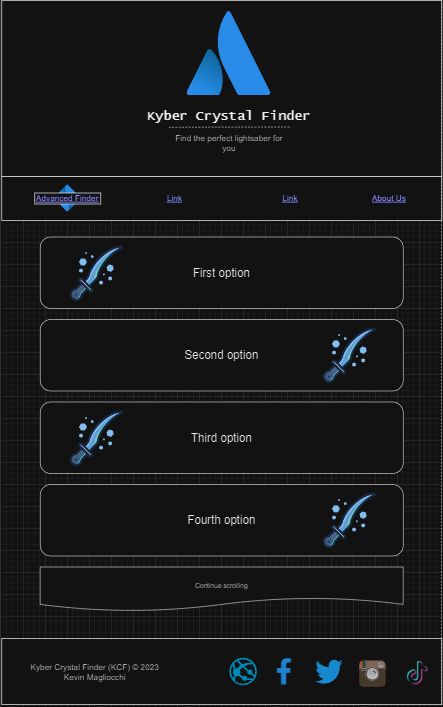
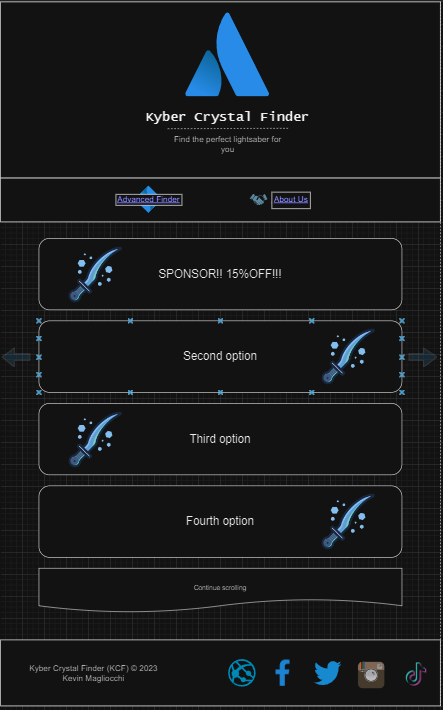
Completed the verst version of my site plan

diff --git a/kcf_site/site-plan.html b/kcf_site/site-plan.html
@@ -126,29 +126,46 @@
       </h2>
       <h3>Home page</h3>
       <p>
-        [Written copy for the home page here]
+        The home page will feature a scrolling layout with banners for the most visited sites to buy lightsabers or to customize your own. There will be more than just 4 options but the first options on the page will be sites or products that have a limited time discount. The header will contain the link for page 2: Advanced Filter and Page 3: About us.
+        <br> The very first option will contain a sublink to the site partners The subpage will contain featured offers with a lower price.
       </p>
       <p>Images for the Home page</p>
-        <img src="#" alt="image for homepage">
-        <img src="#" alt="image for homepage">
+        <img src="images/kfc_logo.png" alt="logo for homepage">
+        <img src="images/background.png" alt="background for homepage">
 
       </ul>
-      <h3>[Advanced Find]</h3>
+      <h3>Advanced Find</h3>
       <p>
-        [Written copy for the Page 2 here]
+        This page will contain a search bar to find the products you are looking for. Also there will be a filter that will let you choose the type of products you are looking for by very specific categories. The majority of those options are multi-selectable to allow you to have even more specific results as the aim of the site is to provide the most options available in the internet. This page will lead you to a sub-page with products that match the search. All the filters will be at the left of the page and the results will appear as scrolling containers with information about the products. Every product will have tags and provider information, clickling on them will lead you to the product official page. <br> There will be a mechanism that gathers products that match the specifications provided by me. It will search many sites on the internet and retrieve the product data such as price, location(if available) an image of the product and many other information. Each product added will countain a series of tags that are directly connected to the filters. The search bar will also be directly connected to the filters identifying the keywords used by the user.
       </p>
+
       <p>Images for the Page 2</p>
-        <img src="#" alt="image for page">
-        <img src="#" alt="image for page">
+        <img src="images/background.png" alt="background image for page">
+        <img src="images/kyber.jpeg" alt="image for the top of the page">
+        <img src="images/placeholder_3.png" alt="placeholder image for logo">
 
       </ul>
-      <h3>[Page 3]</h3>
+      <h3>About Us</h3>
       <p>
-        [Written copy for the Page 3 here]
+        This page will contain information about the company and its history. It will also contain links to other pages as well as social media with more in depth information about it.
+        <br> Here is the text that will be used in the page:
+        <p>
+          "Welcome to Kyber Crystal Finder, the best place in the galaxy to find all things related to lightsabers. We are a team of Star Wars fans led by Kevin Magliocchi very passionate about lightsabers. Having spent many years of our lives dreaming of one day holding a lightsaber, our purpose is to show you that anyone can make this dream a reality.<br>
+
+          Our journey began with a shared love for the iconic lightsabers that have graced the Star Wars universe. We understand the excitement of holding a finely crafted hilt, igniting a glowing blade, and feeling the Force resonate through your hands. Our mission is to ensure that every Jedi and Sith, from Padawan to Master, can find the perfect lightsaber to match their unique style and combat needs.<br>
+          
+          At Kyber Crystal Finder, we've searched the galaxy's digital realms to curate an extensive database of lightsaber replicas, parts, and accessories. Our team of experts has created our search engine to deliver accurate, lightning-fast results, helping you find the lightsaber of your dreams with ease.<br>
+          
+          But Kyber Crystal Finder is more than just a website; it's a community of Star Wars fans like us! We believe in fostering a sense of unity among fans, where sharing knowledge and experiences is just as important as finding the ideal lightsaber. <br>
+          
+          Whether you're a collector, a cosplayer, or a dedicated duelist, Kyber Crystal Finder is your trusted companion in the quest for the perfect lightsaber. May the Force guide you as you navigate our platform, and we're here to assist you every step of the way. Join us on this intergalactic journey, and together, we can explore the wonders of the Star Wars galaxy!<br>
+          
+          Thank you for joining us in our adventure through the Star Wars universe. May the Force be with you!"
+        </p>
       </p>
       <p>Images for the Page 3</p>
-        <img src="#" alt="image for page3">
-        <img src="#" alt="image for page3">
+        <img src="images/background.png" alt="background image for page3">
+        <img src="images/me.jpg" alt="placeholder image for page3">
 
       </ul>
       <hr>
@@ -159,22 +176,23 @@
         Create three wireframes for your site. One for each page and list them here</p>
 
       <h3>Home</h3>
-      <p>         
-        [Any additional details about home that the wireframe does not make clear]
+      <p>
+        The header includes 3 links there are dinamic. The page that you are on will have its link replaced with the homepage link(but it'll always be on the left of the page regardless of the page you are on).
+        The network symbol on the footer indicates the personal website of the creator.
       </p>
       <img src="images/wireframe_1.PNG" alt="home page wireframe">
 
-      <h3>[Page 2]</h3>
+      <h3>Advanced Finder</h3>
       <p>         
-        [Any additional details about page 2 that the wireframe does not make clear]
+        The filters are multi-selectable and the more whitespace is to provide more filters in the near future.
       </p>
       <img src="images/wireframe_2.PNG" alt="page 2 wireframe">
 
-      <h3>[Page 3]</h3>
+      <h3>About Us</h3>
       <p>         
         [Any additional details about page 3 that the wireframe does not make clear]
       </p>
-      <img src="#" alt="page 3 wireframe">
+      <img src="images/wireframe_3.png" alt="page 3 wireframe">
     </main>
   </body>
 
